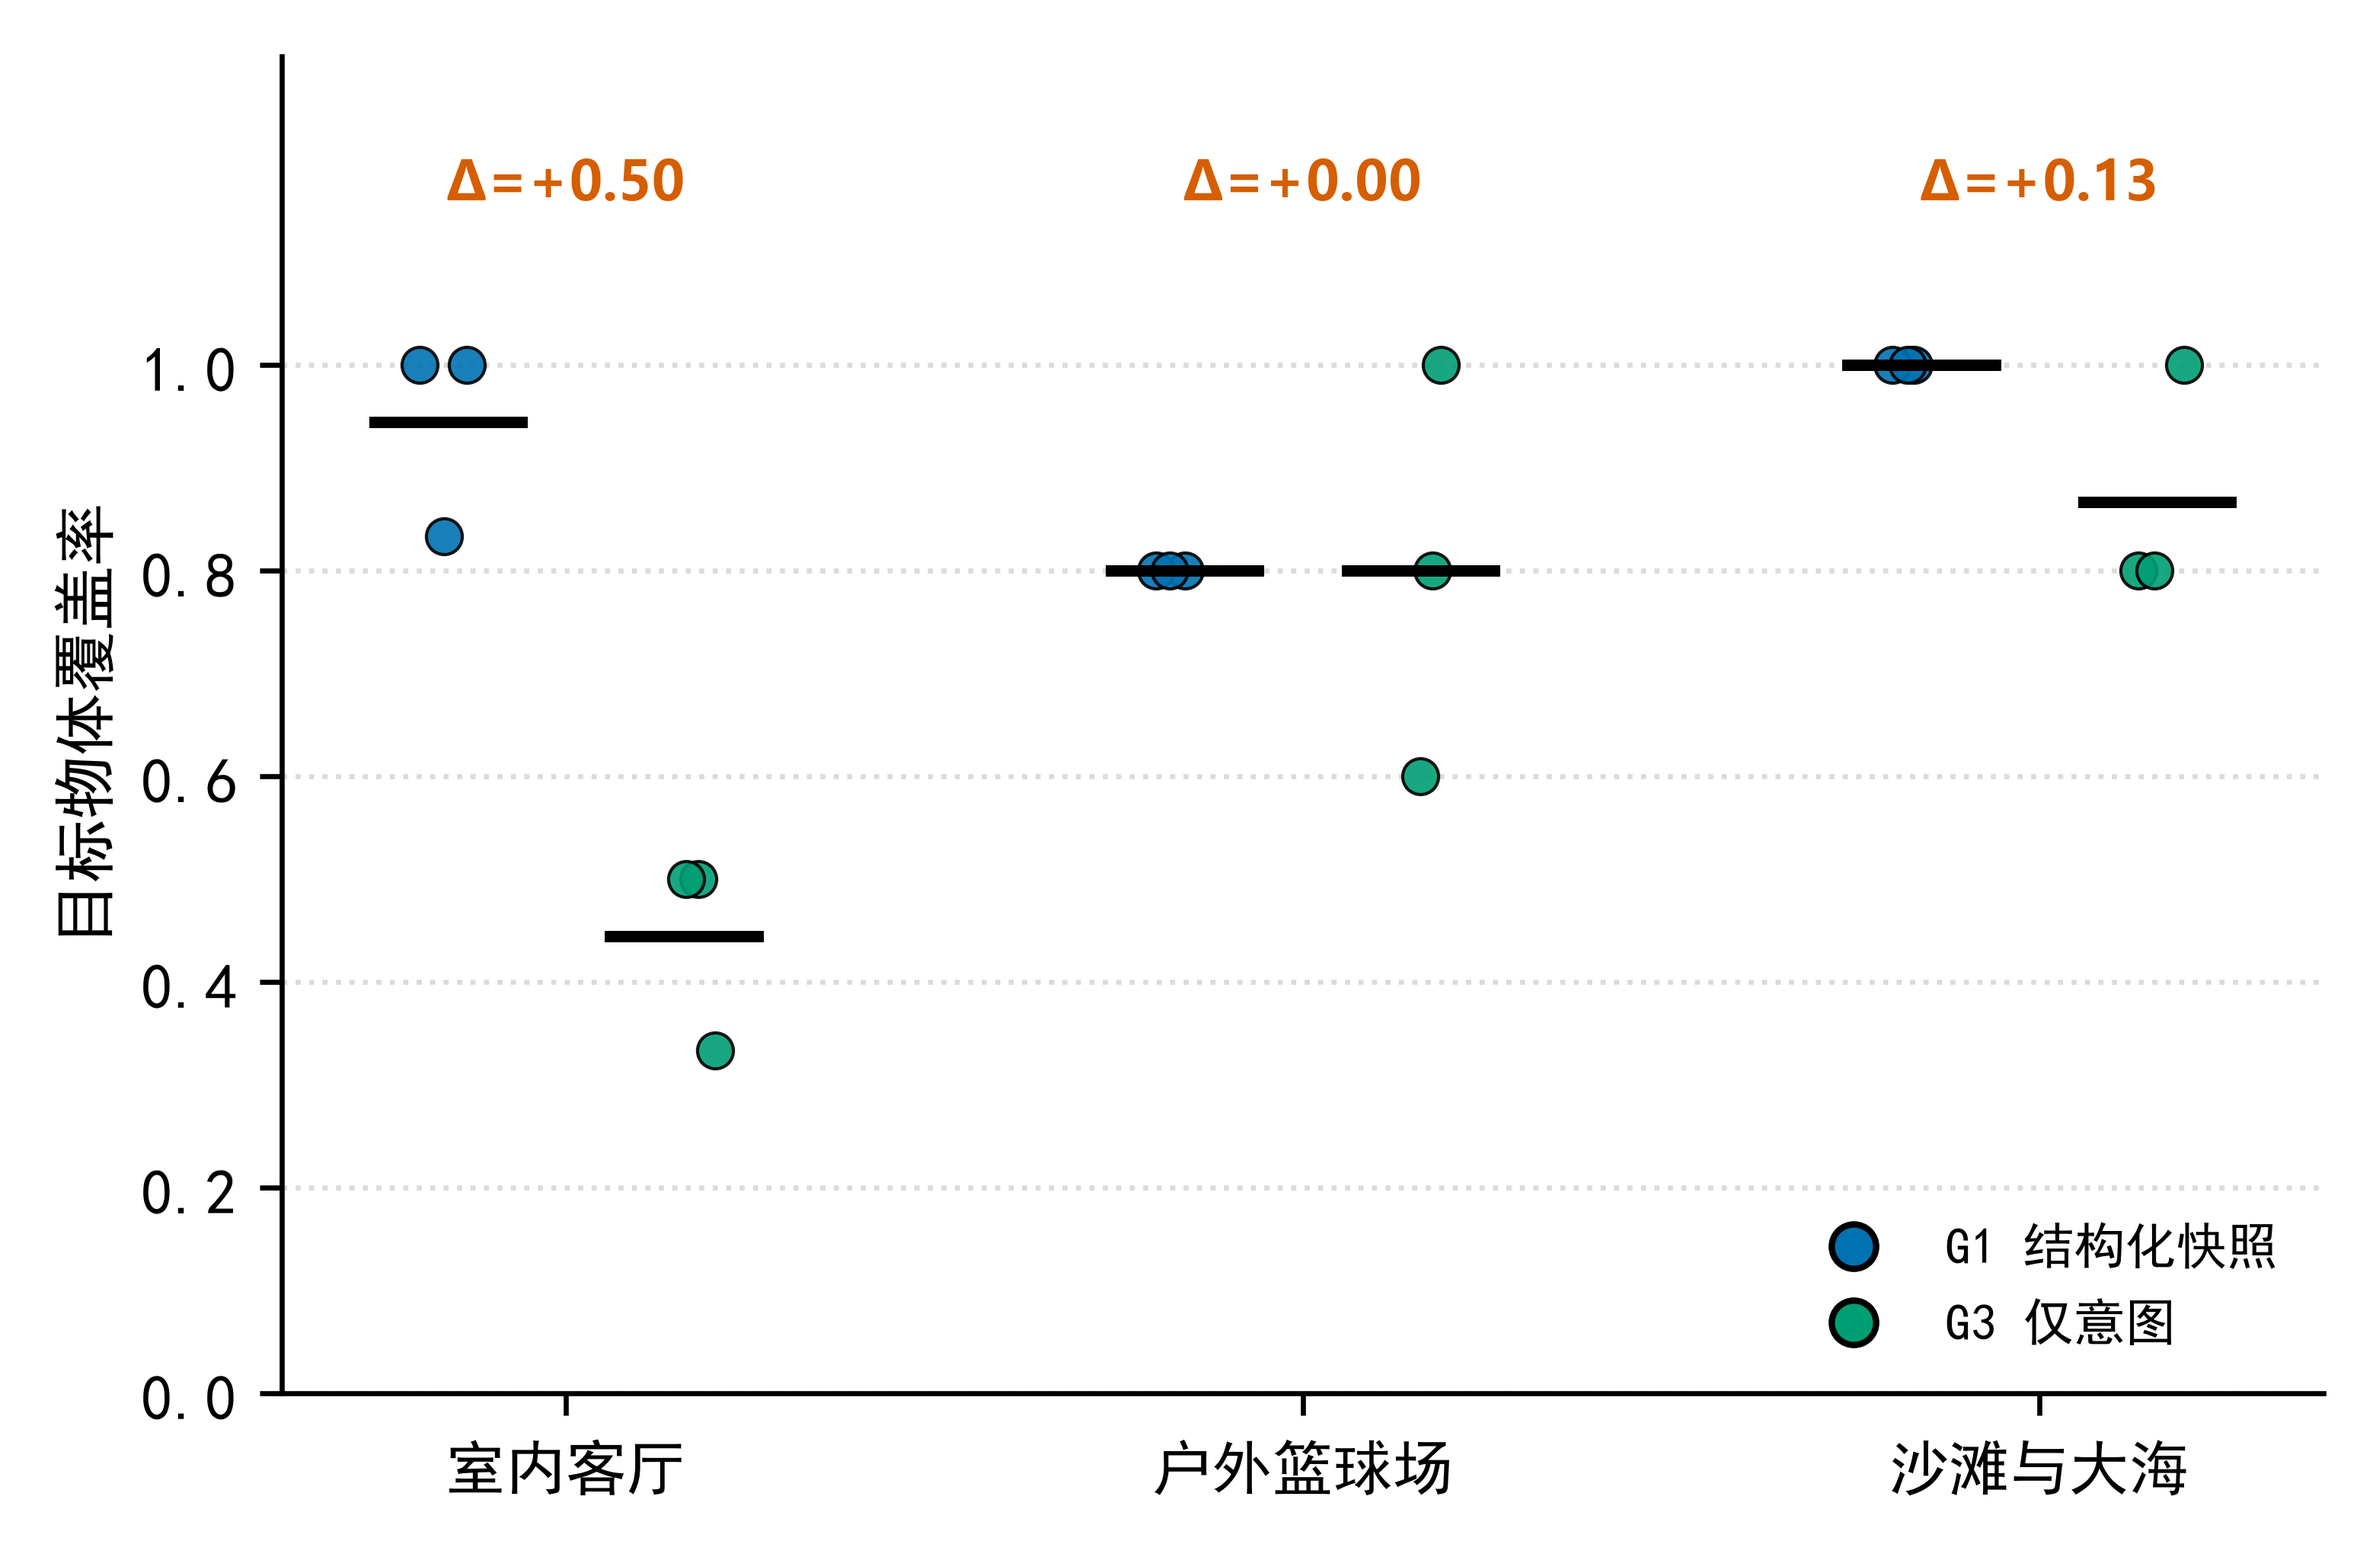
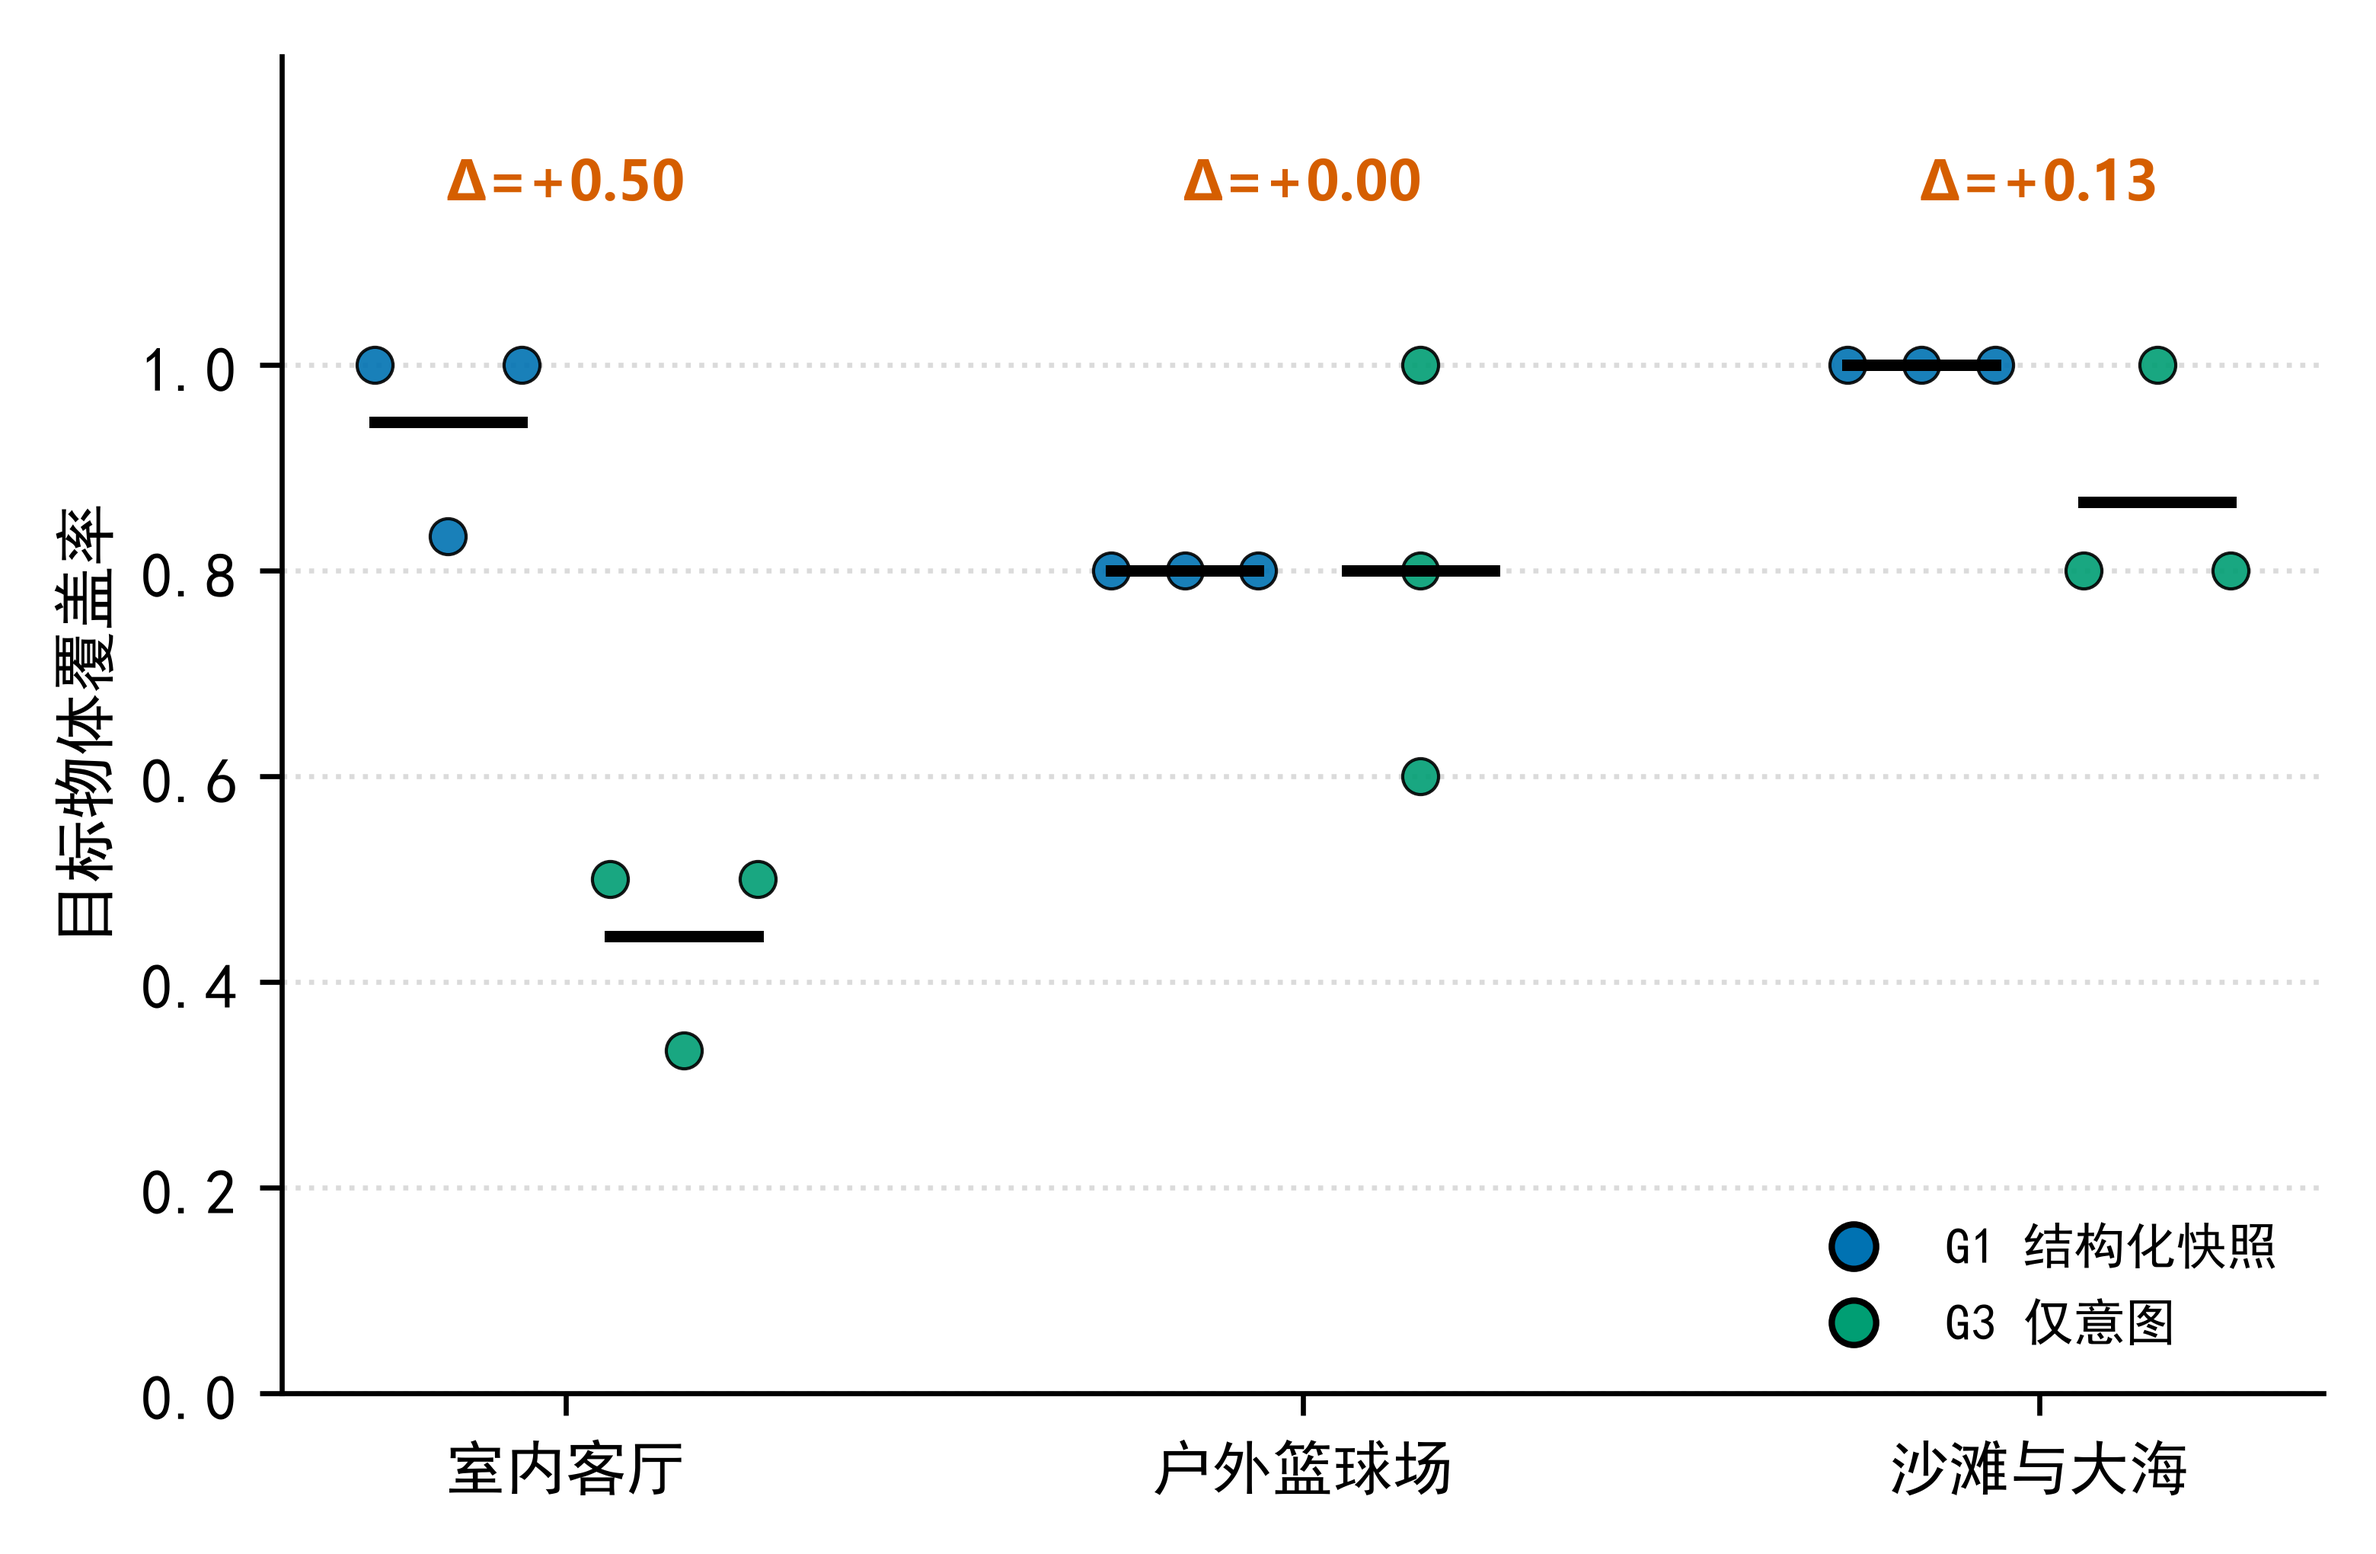
fix(figures): 确定性铺开消除点重叠(图3:12对→0, 图5:8对→0) + 图1标签居中

diff --git a/scripts/make_fig345.py b/scripts/make_fig345.py
@@ -44,11 +44,35 @@ def cohen_d(a, b):
     return (ma - mb) / s if s > 0 else 0.0
 
 
+def _spread(vals, center, jitter, ythresh=0.0):
+    """Deterministic spread for strip plots.
+    Points whose values are vertically closer than `ythresh` (data units) are
+    grouped and spread evenly inside [center-jitter, center+jitter], so that no
+    two markers overlap -- unlike random jitter, which gives no guarantee."""
+    v = np.asarray(vals, float)
+    xs = np.full(len(v), center, float)
+    order = np.argsort(v, kind="stable")
+    vs = v[order]
+    k = 0
+    while k < len(vs):
+        j = k
+        while j + 1 < len(vs) and (vs[j + 1] - vs[j]) < ythresh:
+            j += 1
+        cnt = j - k + 1
+        if cnt > 1:
+            xs[order[k:j + 1]] = center + np.linspace(-jitter, jitter, cnt)
+        k = j + 1
+    return xs
+
+YT_STRIP = 0.030   # ~1.5x marker diameter in data units (fig3 panels)
+YT_SCENE = 0.045   # fig5 panels
+
+
 def dot_strip(ax, groups, labels, colors, jitter=0.20, seed=42):
     """画 stripplot + 均值线 + 标准差须（P1 合规做法）"""
     rs = np.random.RandomState(seed)
     for i, (v, c) in enumerate(zip(groups, colors)):
-        x = i + rs.uniform(-jitter, jitter, len(v))
+        x = _spread(v, i, jitter, ythresh=YT_STRIP)
         ax.scatter(x, v, s=20, color=c, alpha=0.9, edgecolor="black",
                    linewidth=0.4, zorder=3)
         m, sd = st.mean(v), st.pstdev(v)
@@ -165,7 +189,7 @@ for si, sc in enumerate(scenes):
     for ci, (cond, c) in enumerate([("B2", OI["blue"]), ("B2A2", OI["green"])]):
         v = vals_scene(sc, cond, "M2_recall")
         off = -0.16 if ci == 0 else 0.16
-        x = si + off + rs.uniform(-0.045, 0.045, len(v))
+        x = _spread(v, si + off, 0.10, ythresh=YT_SCENE)
         ax.scatter(x, v, s=32, color=c, alpha=0.9, edgecolor="black",
                    linewidth=0.5, zorder=3)
         m = st.mean(v)

diff --git a/scripts/make_figs.py b/scripts/make_figs.py
@@ -87,9 +87,9 @@ arrow(ax, (0.74, 0.800), (0.59, 0.755), color=OI["green"], lw=1.7)
 ax.text(0.655, 0.828, "状态接地", fontsize=7.8, color=OI["green"], ha="center")
 
 # ---- 状态回写：导出物 -> SGL（走右侧外侧，避免与任何框/箭头交叉）----
-arrow(ax, (0.68, 0.140), (0.88, 0.140), color=OI["green"], lw=1.3, ls="--", style="-")
-arrow(ax, (0.88, 0.140), (0.88, 0.458), color=OI["green"], lw=1.3, ls="--")
-ax.text(0.795, 0.300, "解析融合\n状态回写", fontsize=8, color=OI["green"],
+arrow(ax, (0.68, 0.128), (0.88, 0.128), color=OI["green"], lw=1.3, ls="--", style="-")
+arrow(ax, (0.88, 0.128), (0.88, 0.458), color=OI["green"], lw=1.3, ls="--")
+ax.text(0.812, 0.300, "解析融合\n状态回写", fontsize=8, color=OI["green"],
         ha="center", va="center", linespacing=1.4)
 
 plt.subplots_adjust(left=0.01, right=0.99, top=0.95, bottom=0.02)
